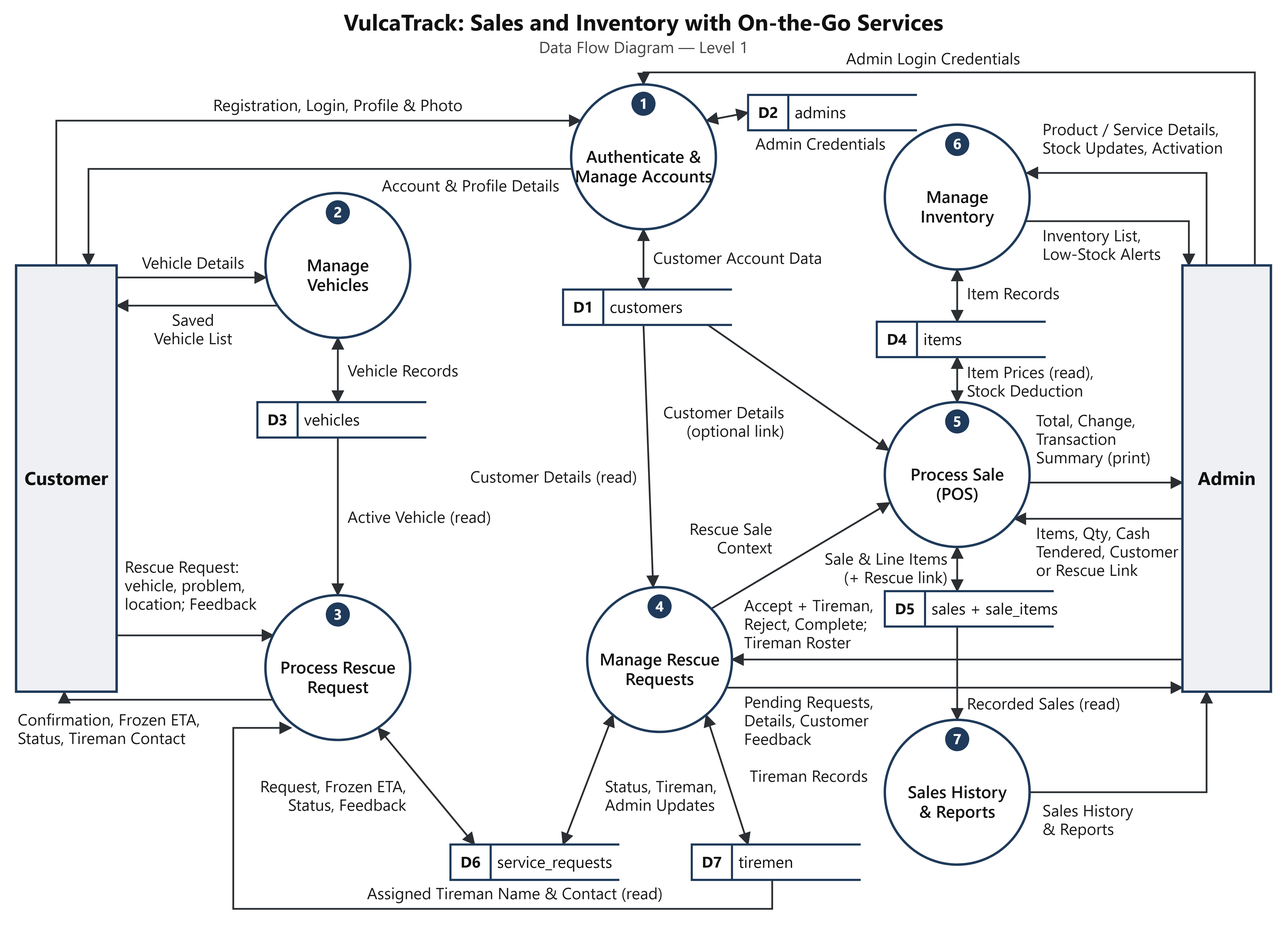
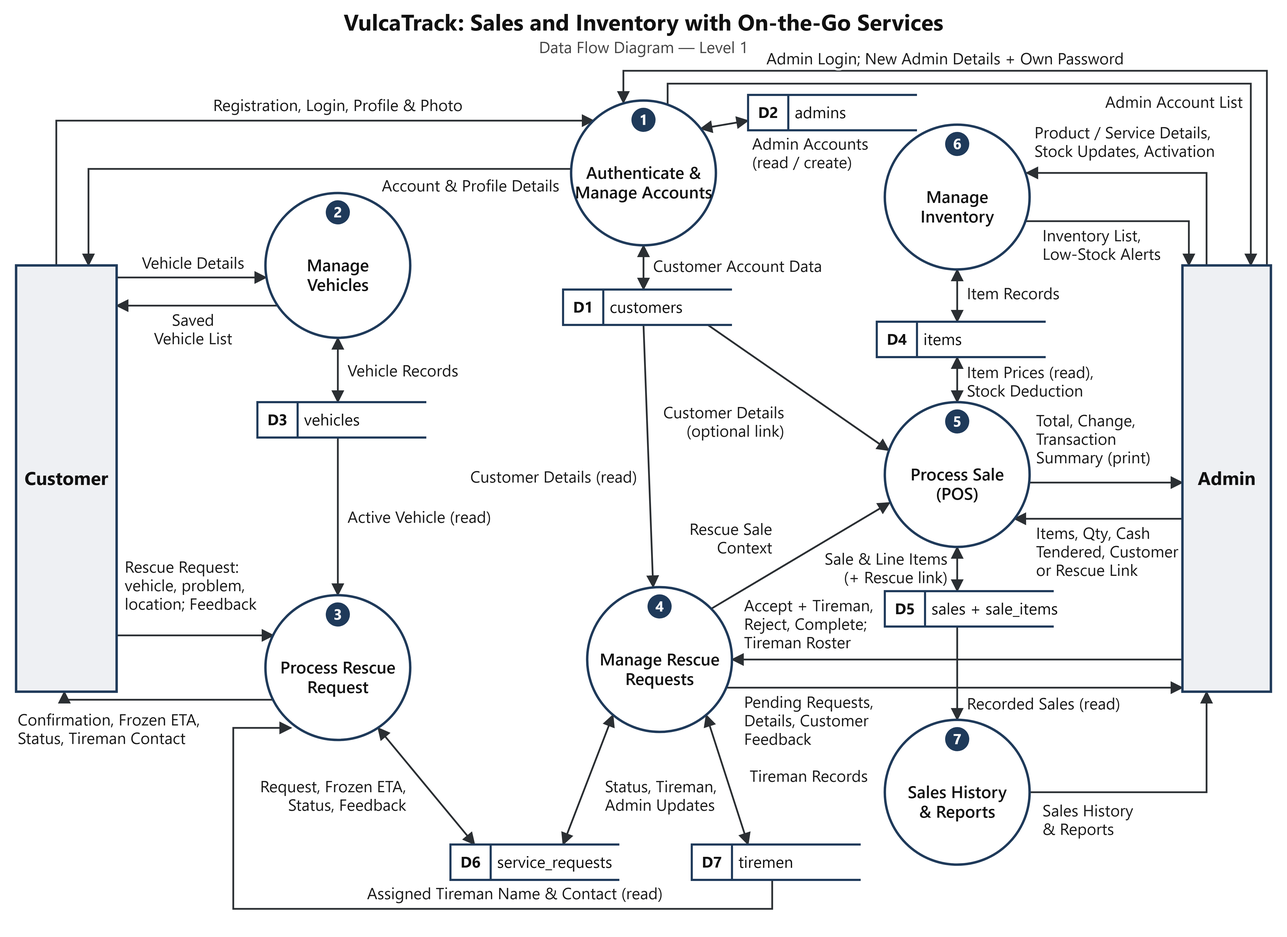
docs(diagrams): show admin accounts in the level 1 DFD and refresh diagram status notes

Changed region(s): [[0.4375, 0.0624, 1.0, 0.2807], [0.5312, 0.2807, 0.625, 0.3119]]

diff --git a/docs/diagram-src/dfd-level1.php b/docs/diagram-src/dfd-level1.php
@@ -16,8 +16,10 @@
  * - Cash tendered is an input to P5 only — no store holds it (Decision 54).
  * - The per-sale output is a printable Transaction Summary (not an official receipt).
  * - P7 = Sales History + Sales Reports (Phase 6): read-only over D5.
- * - Web admin-account creation is NOT shown: it is not in the committed system at
- *   the time of this regeneration (the first admin comes from the CLI seed script).
+ * - Admin Accounts (Decision 79) is part of process 1: a signed-in admin sends new
+ *   admin details plus their OWN current password; P1 re-authenticates against D2,
+ *   creates the account there and returns the admin account list. (The first admin
+ *   still comes from the CLI seed script, outside the system's data flows.)
  * - Every flow passes through a process (no entity <-> store flow).
  *
  *   php docs/diagram-src/dfd-level1.php > docs/flows/VulcaTrack-DFD-1-Level1.svg
@@ -29,7 +31,7 @@ const SW = 210, SH = 44;
 $navy = '#1f3a5a';
 
 $procs = [ // id => [cx, cy, name]
-    1 => [800, 195, "Authenticate &\nManage Accounts"],
+    1 => [800, 215, "Authenticate &\nManage Accounts"],
     2 => [420, 330, "Manage\nVehicles"],
     3 => [420, 830, "Process Rescue\nRequest"],
     4 => [820, 820, "Manage Rescue\nRequests"],
@@ -51,11 +53,13 @@ $entities = ['Customer' => [20, 330, 125, 530], 'Admin' => [1470, 330, 110, 530]
 // flows: [points, label (\n ok), [label x, first baseline y], anchor, double-headed?]
 $flows = [
     // Customer <-> P1 (routed over P2), P1 <-> D1 / D2, Admin login over the top
-    [[[70, 330], [70, 150], [722, 150]], 'Registration, Login, Profile & Photo', [420, 138], 'middle'],
+    [[[70, 330], [70, 150], [738, 150]], 'Registration, Login, Profile & Photo', [420, 138], 'middle'],
     [[[711, 210], [110, 210], [110, 330]], 'Account & Profile Details', [585, 238], 'middle'],
-    [[[800, 285], [800, 360]], 'Customer Account Data', [812, 328], 'start', true],
-    [[[878, 150], [930, 140]], 'Admin Credentials', [1020, 186], 'middle', true],
-    [[[1560, 330], [1560, 90], [800, 90], [800, 105]], 'Admin Login Credentials', [1160, 80], 'middle'],
+    [[[800, 305], [800, 360]], 'Customer Account Data', [812, 338], 'start', true],
+    [[[871, 160], [930, 150]], "Admin Accounts
+(read / create)", [935, 186], 'start', true],
+    [[[1575, 330], [1575, 88], [775, 88], [775, 128]], 'Admin Login; New Admin Details + Own Password', [1175, 80], 'middle'],
+    [[[830, 130], [830, 104], [1555, 104], [1555, 330]], 'Admin Account List', [1545, 134], 'end'],
     // Customer <-> P2, P2 <-> D3
     [[[145, 345], [331, 345]], 'Vehicle Details', [240, 334], 'middle'],
     [[[345, 380], [145, 380]], "Saved\nVehicle List", [240, 405], 'middle'],
@@ -81,7 +85,7 @@ $flows = [
     [[[1279, 600], [1470, 600]], "Total, Change,\nTransaction\nSummary (print)", [1288, 530], 'start'],
     [[[1470, 645], [1261, 645]], "Items, Qty, Cash\nTendered, Customer\nor Rescue Link", [1288, 670], 'start'],
     // P6
-    [[[1500, 330], [1500, 215], [1276, 215]], "Product / Service Details,\nStock Updates, Activation", [1296, 168], 'start'],
+    [[[1500, 330], [1500, 215], [1276, 215]], "Product / Service Details,\nStock Updates, Activation", [1286, 172], 'start'],
     [[[1273, 275], [1478, 275], [1478, 330]], "Inventory List,\nLow-Stock Alerts", [1296, 300], 'start'],
     [[[1190, 335], [1190, 400]], 'Item Records', [1202, 372], 'start', true],
     // P7

diff --git a/docs/PROJECT-CONTEXT.md b/docs/PROJECT-CONTEXT.md
@@ -5,7 +5,7 @@
 | **Project title (LOCKED)** | **VulcaTrack: Sales and Inventory with On-the-Go Services** |
 | **Document purpose** | Single authoritative context/handoff file so anyone new to the project can understand it without relying on prior discussion or undocumented context. |
 | **Current project phase** | **Phases 1–6 + Phase 4.5 COMPLETE. Phase 6 closed 2026-09-28; Phase 7 IN PROGRESS** (Chunk 7.1 inventory edit integrity done — Decision 69; Chunk 7.2 landing page + dashboard cards done; Chunk 7.3 done — 7.3a–c admin Figma alignment (sidebar shell, admin theme, page layouts, POS catalogue cards), 7.3d **Rescue sales**: the sale for an accepted / completed Rescue request is recorded through the POS and linked to it — Decisions 70–76, see §10; committed through `7d158e6`. Next: 7.4 responsive / mobile refinement, 7.5 documentation / diagrams / demo / deployment readiness, 7.6 final regression — backlog in §16.5). **Phase 5 (POS & inventory) closed 2026-09-23** after an end-to-end hardening pass: the minimal Admin app shell, the full Inventory module, `Money` (integer centavos), the **Sales foundation** (`SaleRepository` + atomic `SaleService`, Decisions 61–63), the **POS** (`admin/pos.php` — session cart, optional customer link / walk-in, cash tender/change, checkout through `SaleService`) and the **printable Transaction Summary** (`admin/transaction-summary.php`, Decision 50). **Phase 6 (admin OTG handling + reporting) COMPLETE** — Chunk 6.1 **Tireman management** done (`admin/tiremen.php` + `admin/tireman-edit.php` on `TiremanRepository`: add / edit / active-inactive-all filter / activate-deactivate, no delete); Chunk 6.2 **Rescue list + detail** done (`admin/rescue.php` + `admin/rescue-view.php`); Chunk 6.3 **Rescue status actions** done (accept with an active Tireman / reassign / reject / complete — Decisions 65–68); **Sales History** done (`admin/sales.php`: read-only, all sales newest first, optional From / To filter on `sale_date`, each row links to the Transaction Summary); **Sales Reports** done (`admin/reports.php`: read-only, same From / To filter, Transactions + Total Sales cards, Daily Sales grouped by `sale_date`, Items Sold with frozen revenue; no charts / exports). Phase 5 pre-decisions are Decisions 49–57; the sales-foundation decisions are 61–63. |
-| **Last updated** | 2026-09-29 (rev. 25 — Phase 7.4 Chunk 2: authenticated Admin Accounts page for creating additional admins — Decision 79; Chunk 1 admin-login redesign + customer header avatar; no schema change; see §20) |
+| **Last updated** | 2026-09-29 (rev. 26 — paper diagrams regenerated: ERD, OTG activity, POS sequence, Level 1 DFD incl. Admin Accounts; status notes refreshed. Previous: rev. 25 — Phase 7.4 Chunk 2: authenticated Admin Accounts page for creating additional admins — Decision 79; Chunk 1 admin-login redesign + customer header avatar; no schema change; see §20) |
 | **Status** | **Living document.** Update it whenever a decision changes. If it conflicts with `docs/decisions/project-decisions.md`, the decision record wins and this file must be corrected. |
 
 ---
@@ -114,13 +114,13 @@ When information conflicts, use this order:
 | `docs/PROJECT-CONTEXT.md` | **This file** — consolidated handoff context. |
 | `docs/decisions/project-decisions.md` | **Authoritative** confirmed decisions, scope, change-control. Decisions numbered 1–76 + open questions + conflict log + revision history. |
 | `docs/ERD/schema.dbml` | **Database source of truth** (DBML text). |
-| `docs/ERD/VulcaTrack-ERD_1.png` | ERD diagram — visual aid only, **behind** `schema.dbml`, pending regeneration. |
+| `docs/ERD/VulcaTrack-ERD_1.png` / `.svg` | ERD diagram — visual aid; **regenerated 2026-09-29** straight from `schema.dbml` (`docs/diagram-src/erd.php`). |
 | `docs/VulcaTrack-Database-Notes_1.md` | Field-by-field DB rationale; has a 2026-08-31 revision note at the top. |
 | `docs/VulcaTrack-Use-Case-Diagram_1.png` | Actors + use cases; changes pending. |
 | `docs/flows/VulcaTrack-1..6-*.png` | Overall, Customer, Admin, POS, OTG, Inventory workflows. Flows 2 & 5 are pending updates. |
-| `docs/flows/VulcaTrack-DFD-0-Context.*` / `VulcaTrack-DFD-1-Level1.*` | **Data Flow Diagrams** (Chapter 3) — context (Level 0) and Level 1, academic notation. Regenerated 2026-09-04 from the approved scope + 8-table schema; consistent with Decision 48 (ETA computed internally — no external routing entity). Editable `.svg` + high-res `.png`. See `VulcaTrack-DFD-notes.md`. |
-| `docs/flows/VulcaTrack-Activity-Diagram-OTG.*` | **OTG activity diagram** (Chapter 3). Three swimlanes — Customer / VulcaTrack System / Admin; the roadside job is an *off-system note*, not a Tireman swimlane. Four statuses only. Committed & reviewed 2026-09-06. |
-| `docs/flows/VulcaTrack-Sequence-Diagram-POS.*` | **POS sequence diagram** (Chapter 3). Admin · VulcaTrack POS · Items DB · Sales & Line Items DB · Receipt. Frozen `unit_price`, product-only stock deduction, printable HTML receipt, no payment table. Reflects the approved Phase 5 design, not written code. Committed & reviewed 2026-09-06. |
+| `docs/flows/VulcaTrack-DFD-0-Context.*` / `VulcaTrack-DFD-1-Level1.*` | **Data Flow Diagrams** (Chapter 3) — context (Level 0) and Level 1, academic notation. Level 1 **regenerated 2026-09-29** by `docs/diagram-src/dfd-level1.php` (Rescue sale context, feedback, Sales History & Reports, Admin Accounts); Level 0 is from 2026-09-04 and pending refresh (decision record D7); consistent with Decision 48 (ETA computed internally — no external routing entity). Editable `.svg` + high-res `.png`. See `VulcaTrack-DFD-notes.md`. |
+| `docs/flows/VulcaTrack-Activity-Diagram-OTG.*` | **OTG activity diagram** (Chapter 3). Three swimlanes — Customer / VulcaTrack System / Admin; the roadside job is an *off-system note*, not a Tireman swimlane. Four statuses only. Committed & reviewed 2026-09-06; **regenerated 2026-09-29** (`docs/diagram-src/activity-otg.php`: accept + assign in one action, accepted → rejected, optional feedback). |
+| `docs/flows/VulcaTrack-Sequence-Diagram-POS.*` | **POS sequence diagram** (Chapter 3). Admin · VulcaTrack POS (SaleService) · Items · Sales & Line Items · Transaction Summary. One atomic transaction, frozen `unit_price`, product-only stock deduction, cash tender / change not stored, no payment table. **Regenerated 2026-09-29** from the implemented code (`docs/diagram-src/sequence-pos.php`). |
 | `docs/requirements/` | Empty. Reserved for a finalized requirements/SRS **if one is ever produced**. Do not invent requirements to fill it. |
 
 ---
@@ -401,9 +401,9 @@ The 8-table design (Decisions 22–26) is the **current approved design**. `docs
 
 The earlier handoff-draft wording ("Tireman is not a DB entity", 7 tables) is **superseded**.
 
-### 16.2 Diagrams pending regeneration (non-blocking, tracked in the decision record as D1–D5)
-- ERD PNG, use-case PNG, and OTG flowcharts 2 & 5 are **POSSIBLY OUTDATED** relative to the decision record. `schema.dbml` is the current DB truth. These are documentation-catch-up items, not blockers.
-- Since Decisions 70–76 (Rescue sales) also: the ERD PNG lacks `sales.service_request_id`, and the POS flowchart (4), POS sequence diagram, OTG activity diagram and Level 1 DFD do not show the Rescue-sale path (decision record D1, D4, D6). `schema.dbml` already shows the relationship. All regeneration is planned for Phase 7.5.
+### 16.2 Diagrams pending regeneration (non-blocking, tracked in the decision record as D1–D7)
+- **Refreshed 2026-09-29** (generated by `docs/diagram-src/`, larger print-size text): the ERD, the OTG activity diagram, the POS sequence diagram and the Level 1 DFD (D1, and D6 except flowchart 5).
+- Still **POSSIBLY OUTDATED**: the use-case PNG (D2), OTG flowcharts 2 & 5 (D3), the POS flowchart 4 (D4) and the Level 0 context DFD (D7 — must balance with the new Level 1). Documentation-catch-up items, not blockers.
 
 ### 16.3 Minor doc drift
 - The decision record's Technology table was updated in the 2026-09-06 stabilization pass to name **MariaDB 10.4 / MySQL-compatible** and **Vue (where it helps)**, matching this document. ✅
@@ -431,7 +431,7 @@ One list for Phase 7 to pick from deliberately. It supersedes the scattered note
 - Friendlier date/time display (currently raw `Y-m-d H:i:s` everywhere).
 - Context-aware Transaction Summary back link (always "Back to POS", even from Sales History).
 - Inventory `?saved=` notice reappearing on refresh (move to the one-time session flash).
-- Diagram regeneration for the presentation: ERD PNG, use-case PNG, flows 2 and 5 (decision record D1–D5, §16.2).
+- Diagram regeneration for the presentation: use-case PNG, flows 2, 4 and 5, and the Level 0 context DFD (decision record D2–D4, D7, §16.2) — the ERD, activity, POS sequence and Level 1 DFD were regenerated 2026-09-29.
 - Documentation sync, including the repo-root `README.md` truncation (§16.3).
 - Road-following routing / driving ETA (Decision 60), only if time allows.
 
@@ -513,6 +513,7 @@ Because of the presentation deadline, prefer a **working vertical slice** over p
 
 | Date | Change |
 |---|---|
+| 2026-09-29 (rev. 26) | **Paper diagram refresh — no decision change, no schema change.** The ERD (from `schema.dbml`), OTG activity diagram, POS sequence diagram and Level 1 DFD are regenerated from the committed system by the generators in `docs/diagram-src/` (`bash docs/diagram-src/build.sh`), with about 2–3× larger printed text. The Level 1 DFD now also shows the Rescue sale context (P4 → P5), completed-Rescue feedback, Sales History & Reports (new process 7) and Admin Accounts (process 1, Decision 79). Still pending: use-case PNG, flowcharts 2 / 4 / 5, Level 0 context DFD (§16.2). |
 | 2026-09-29 (rev. 25) | **Phase 7.4 Chunks 1–2. Decision change: Decision 79 added (owner-approved); no schema change.** Chunk 1 (presentation + input hardening): the admin login uses the customer auth shell ("Administrator Access", "Back to Customer Login"; still its own route and form — no toggle, sign-up or reset); both login handlers treat a forged `email[]` / `password[]` as missing input; the customer header shows the customer's own picture (via `customer/avatar.php`, generic icon fallback) linked to Profile. Chunk 2: `admin/accounts.php` lists admins (name, email, created) and creates additional ones — POST + CSRF, full name / email (trimmed + lowercased) / new password + confirmation / **the signed-in admin's own current password**; UNIQUE email → clear duplicate message; PRG; the current admin stays signed in, the new one is not. Reached from "Admin accounts" under the signed-in name in the sidebar (no Settings, no nav item). All admins equivalent; no edit / delete / reset. `seed_admin.php` stays for the first admin, recovery and development (Decision 46 clarified). |
 | 2026-09-29 (rev. 24) | **Phase 7.4c — completed Rescue feedback. Decision change: Decision 78 added (owner-approved); conflict C8 resolved; one structural schema change.** The owner of a completed, serviced request may give one-time feedback from `customer/feedback.php?id=N` (reached by "Rate this service" on Request Status): a required 1–5 star rating (five native radios) and an optional comment ≤ 500 characters (CRLF counted as one; blank → NULL). Stored on `service_requests` (`feedback_rating` TINYINT UNSIGNED + CHECK `chk_service_requests_feedback_rating`, `feedback_comment` VARCHAR(500), `feedback_submitted_at` DATETIME; migration `2026-09-29-service-requests-feedback.sql`) by one guarded UPDATE (`ServiceRequestRepository::submitFeedback`) that re-checks owner / completed / Tireman / no feedback yet — never overwritten, never edited, and it never changes status, Tireman, `admin_id`, `updated_at` or any sale. Shown read-only on Request Status ("Your feedback") and on the admin Rescue detail ("Customer feedback"). The Tireman appears by name only; no Tireman scores / averages / rankings (Decision 26 clarified). Also: `Csrf::check()` now takes any raw value, so a forged `_csrf[]` is a normal refusal instead of a TypeError on every form. |
 | 2026-09-29 (rev. 23) | **Phase 7.4 — responsive admin (7.4a) + customer Figma alignment (7.4b). Decision change: Decision 77 added (owner-approved); one structural schema change.** Customer top nav is Home / Book a Rescue / My Bookings / Profile; My Vehicles lives under Profile in a shared account panel (Personal Info / Security / Your Vehicles / Log out — no Notifications / Tracking). Vehicle Type is a dropdown (standard choices or the vehicle's own legacy value; blank allowed). **Profile picture (7.4b-e2):** nullable `customers.avatar_filename` (migration `2026-09-29-customers-avatar-filename.sql`); JPEG / PNG / WebP ≤ 5 MB verified from contents (`finfo` + `getimagesize`); files private under `storage/avatars/` (git-ignored, `.htaccess`-denied), served only to their owner by `customer/avatar.php`; new file → DB row → old file deleted; initials fallback; no GD / resizing. **Deployment (7.5):** `storage/avatars/` must be writable, kept across deployments and backed up with the database; `upload_max_filesize` / `post_max_size` ≥ 6 MB; production `display_errors` Off; verify the `storage/.htaccess` deny on the host. |

diff --git a/docs/decisions/project-decisions.md b/docs/decisions/project-decisions.md
@@ -1236,7 +1236,7 @@ phase at a time; the next phase is never auto-started.
 |---|---|---|
 | `docs/VulcaTrack-Database-Notes_1.md` | Field-by-field explanation of the database design, business rules, integrity rules, assumptions, and unresolved questions. Read alongside the schema. | Has a 2026-08-31 revision note at the top. |
 | `docs/ERD/schema.dbml` | **Maintainable source of truth for the database schema** (DBML text). Basis for the eventual MySQL implementation. | Decision 38. Added 2026-08-31. |
-| `docs/ERD/VulcaTrack-ERD_1.png` | Entity-relationship diagram (visual aid). | Image. Now **behind** `schema.dbml`; needs regeneration — see Required Diagram Changes. |
+| `docs/ERD/VulcaTrack-ERD_1.png` | Entity-relationship diagram (visual aid). | Image + `.svg`. **Regenerated 2026-09-29** from `schema.dbml` by `docs/diagram-src/erd.php` (Required Diagram Changes D1 — refreshed). |
 | `docs/VulcaTrack-Use-Case-Diagram_1.png` | Actors and use cases for customer and admin sides. | Image. Changes pending (see Required Diagram Changes). "Manage Customer Accounts" flagged as proposed. |
 | `docs/flows/VulcaTrack-1-Overall-System-Flow.png` | Overall system workflow. | Image. |
 | `docs/flows/VulcaTrack-2-Customer-Flow.png` | Customer-side workflow. | Image. |
@@ -1281,11 +1281,10 @@ each item below.
 ### Remaining conflicts after this update
 
 - **No unresolved *CONFLICT* remains between the confirmed decisions and the artifacts.**
-- **POSSIBLY OUTDATED diagrams** (documented, not yet regenerated): ERD PNG, use-case PNG,
-  OTG flowcharts 2 & 5, and — since Decisions 70–76 — the POS flowchart, the POS
-  sequence diagram, the OTG activity diagram and the Level 1 DFD — see
-  [Required Diagram Changes](#required-diagram-changes). Planned for the Phase 7.5
-  documentation / diagram refresh.
+- **POSSIBLY OUTDATED diagrams** (documented, not yet regenerated): use-case PNG, OTG
+  flowcharts 2 & 5, the POS flowchart (4) and the Level 0 context DFD — see
+  [Required Diagram Changes](#required-diagram-changes). *Refreshed 2026-09-29:* the ERD,
+  the OTG activity diagram, the POS sequence diagram and the Level 1 DFD.
 - **N8 (Figma)** stays open until the prototype is provided.
 
 Any future conflict must be reported and classified here (or in a superseding decision
@@ -1295,21 +1294,32 @@ record), never silently reconciled.
 
 ## Required Diagram Changes
 
-Documented here for whoever owns the diagram tooling. **Not executed in this task** (the
-PNGs and the Figma prototype were not modified).
+Documented here for whoever owns the diagram tooling. *2026-09-29:* the ERD (D1) and the
+activity / POS sequence / Level 1 DFD items of D6 are **refreshed** — regenerated from the
+committed code and `schema.dbml` by the generators in `docs/diagram-src/` (see its README).
 
 | ID | Artifact | Classification | Required change |
 |---|---|---|---|
-| D1 | `docs/ERD/VulcaTrack-ERD_1.png` | POSSIBLY OUTDATED | Regenerate from `docs/ERD/schema.dbml`. Must show: (a) new `tiremen` table (`tireman_id` PK, `name`, `contact_number`, `is_active`, `created_at`, `updated_at`); (b) `service_requests.tireman_id` nullable FK → `tiremen`; (c) `items.is_active` and `vehicles.is_active`; (d) `customers → service_requests` as **`1 : 0..N`** (not `1 : 1..N`); (e) *(Decision 70)* `sales.service_request_id` — nullable, UNIQUE FK → `service_requests`, drawn as **`service_requests 1 : 0..1 sales`**; (f) *(Decision 77)* `customers.avatar_filename` — nullable `varchar(64)`, no relationship; (g) *(Decision 78)* `service_requests.feedback_rating` / `feedback_comment` / `feedback_submitted_at` — nullable, no relationship. |
+| D1 | `docs/ERD/VulcaTrack-ERD_1.png` | **REFRESHED 2026-09-29** | *Done:* regenerated from `schema.dbml` (`docs/diagram-src/erd.php`, `.svg` + `.png`), covering (a)–(g) below. Original requirement: regenerate from `docs/ERD/schema.dbml`. Must show: (a) new `tiremen` table (`tireman_id` PK, `name`, `contact_number`, `is_active`, `created_at`, `updated_at`); (b) `service_requests.tireman_id` nullable FK → `tiremen`; (c) `items.is_active` and `vehicles.is_active`; (d) `customers → service_requests` as **`1 : 0..N`** (not `1 : 1..N`); (e) *(Decision 70)* `sales.service_request_id` — nullable, UNIQUE FK → `service_requests`, drawn as **`service_requests 1 : 0..1 sales`**; (f) *(Decision 77)* `customers.avatar_filename` — nullable `varchar(64)`, no relationship; (g) *(Decision 78)* `service_requests.feedback_rating` / `feedback_comment` / `feedback_submitted_at` — nullable, no relationship. |
 | D2 | `docs/VulcaTrack-Use-Case-Diagram_1.png` | POSSIBLY OUTDATED | (a) Collapse "Manage Inventory" + "Manage Products" into one "Manage Inventory" use case (products + services). (b) Add admin use cases "Manage Tiremen" and "Assign Tireman to Request". (c) Keep "Manage Customer Accounts" flagged as proposed/unresolved. |
 | D3 | `docs/flows/VulcaTrack-2-Customer-Flow.png`, `docs/flows/VulcaTrack-5-OTG-Request-Flow.png` | POSSIBLY OUTDATED | Admin branch: add an "Assign Tireman" step after "Set Status: Accepted" *(per Decision 66 the Tireman is chosen in the same step as acceptance; also show accepted → rejected and the final states, Decision 65)*. Customer view after acceptance: show assigned Tireman name + contact number, "Tireman is on the way", the stored ETA, and the route/map. |
 | D4 | `docs/flows/VulcaTrack-4-POS-Flow.png` | POSSIBLY OUTDATED *(was CONSISTENT — annotate)* | Note that "Enter Payment Amount / Payment Sufficient? / Calculate Change" are UI-only (not persisted) and "Generate Receipt" is a printable HTML view with no receipt table. *(Decisions 70–76)* Add the optional Rescue entry: *Record sale in POS* from an accepted / completed request → customer locked to the request's customer → the same cart and checkout → sale linked to the request; the request's status is not changed by the sale. |
 | D5 | `docs/flows/VulcaTrack-6-Inventory-Flow.png` | CONSISTENT | No change. "Deactivate / Delete Item" is now backed by `items.is_active`. |
-| D6 | `docs/flows/VulcaTrack-5-OTG-Request-Flow.png`, `docs/flows/VulcaTrack-Activity-Diagram-OTG.*`, `docs/flows/VulcaTrack-Sequence-Diagram-POS.*`, `docs/flows/VulcaTrack-DFD-1-Level1.*` | POSSIBLY OUTDATED | *(Decisions 70–76, logged 2026-09-28)* OTG flow / activity diagram: after the job, the admin may record the request's sale in the POS (accepted or completed) and separately mark it completed; a request with a sale cannot be rejected. POS sequence diagram: optional Rescue context (read the request, lock its customer, store `service_request_id`). Level 1 DFD: the POS process now reads `service_requests` (D6) to link a sale — no new data store. No payment store in any diagram. |
+| D6 | `docs/flows/VulcaTrack-5-OTG-Request-Flow.png`, `docs/flows/VulcaTrack-Activity-Diagram-OTG.*`, `docs/flows/VulcaTrack-Sequence-Diagram-POS.*`, `docs/flows/VulcaTrack-DFD-1-Level1.*` | **PARTLY REFRESHED 2026-09-29** — activity, POS sequence and Level 1 DFD done; OTG flowchart 5 still outdated (also D3) | *(Decisions 70–76, logged 2026-09-28)* OTG flow / activity diagram: after the job, the admin may record the request's sale in the POS (accepted or completed) and separately mark it completed; a request with a sale cannot be rejected. POS sequence diagram: optional Rescue context (read the request, lock its customer, store `service_request_id`). Level 1 DFD: the POS process now reads `service_requests` (D6) to link a sale — no new data store. No payment store in any diagram. *Done 2026-09-29:* the activity diagram (accept + assign in one action, accepted → rejected, completion separate from the sale, optional feedback), the POS sequence diagram (one atomic transaction, product-only stock deduction, Transaction Summary, tender not stored) and the Level 1 DFD (Rescue sale context P4 → P5, feedback into D6, Sales History & Reports, and — Decision 79 — Admin Accounts in process 1). |
+| D7 | `docs/flows/VulcaTrack-DFD-0-Context.*` | POSSIBLY OUTDATED | Balance with the regenerated Level 1 DFD: "Printable Receipt" → printable **Transaction Summary**; add the customer's completed-Rescue feedback, Sales History & Reports, and admin-account creation (new admin details + own password in, admin account list out). |
 
 ---
 
 ## Revision History
+
+### 2026-09-29 — Paper diagram refresh (status only; no decision change)
+
+- **Required Diagram Changes:** D1 (ERD) refreshed; D6 partly refreshed (activity diagram,
+  POS sequence diagram, Level 1 DFD); new **D7** — the Level 0 context DFD must be balanced
+  with the new Level 1. The Level 1 DFD shows Admin Accounts (Decision 79) as part of
+  process 1. Diagrams are now generated from `docs/diagram-src/` (the ERD straight from
+  `schema.dbml`).
+- No decision change, no schema change.
 
 ### 2026-09-29 — Phase 7.4 Chunk 2: Admin Accounts (**decision change: Decision 79 added**)
 

diff --git a/docs/flows/VulcaTrack-DFD-notes.md b/docs/flows/VulcaTrack-DFD-notes.md
@@ -30,8 +30,9 @@ Request* / *Manage Rescue Requests*; process 3 also stores the customer's one-ti
 sales** (Decisions 70–76): process 4 hands the POS a *Rescue Sale Context* and
 process 5 writes the sale with its Rescue link to D5; new process **7 Sales History &
 Reports** (built in Phase 6) reads D5. *Cash Tendered* stays an input to process 5
-only — no store holds it (Decision 54). Web admin-account creation is not shown (not
-in the committed system when regenerated).
+only — no store holds it (Decision 54). Admin Accounts (Decision 79) is part of process 1:
+new admin details + the admin's own current password in, the admin account list out,
+read / create on D2.
 
 The 2026-09-04 revision is a **visual-clarity pass only** — layout, routing and
 labelling. No process, external entity, data store or data flow was added or
@@ -119,7 +120,8 @@ audit/status-history store, `shop_settings` store, or Tireman-login store.
 > **Resolved 2026-09-29:** the Level 1 DFD now shows Rescue sales (Decisions 70–76)
 > and completed-Rescue feedback (Decision 78). The **context diagram (Level 0)** was
 > not regenerated in that pass and still says *Printable Receipt* and lacks the
-> feedback and sales-report flows — refresh it before using it in the paper.
+> feedback, sales-report and admin-account flows — refresh it before using it in the
+> paper (decision record D7).
 
 ## Consistency check
 
